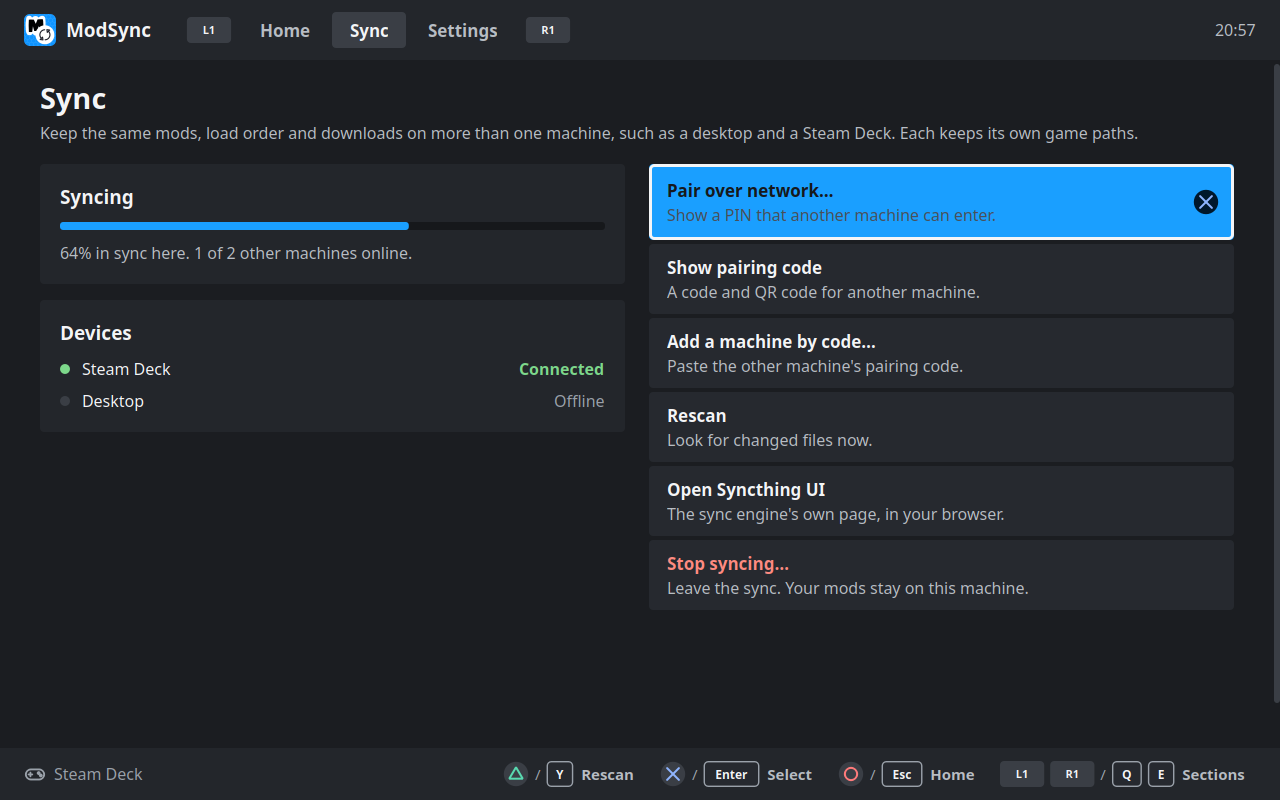
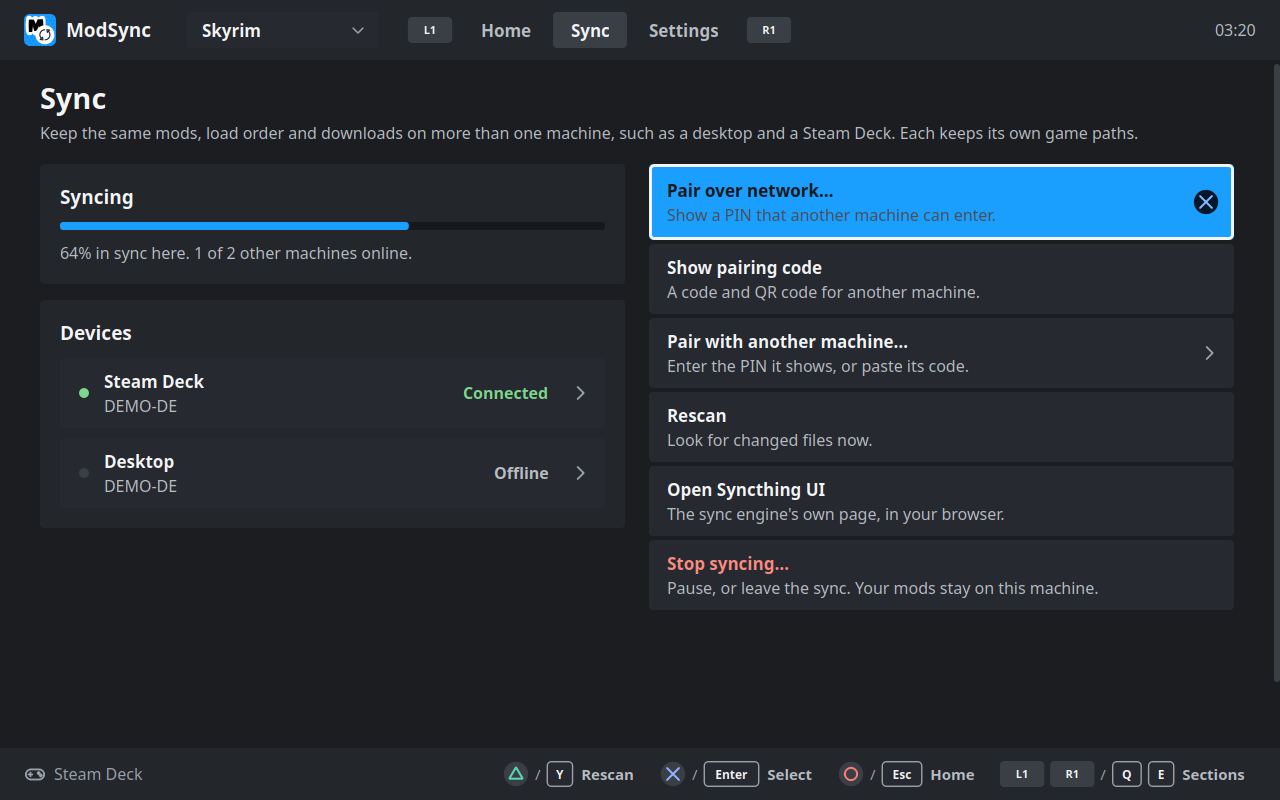
Address review: clear rows when idle; instructions every machine can follow
- Once nothing syncs or pairs here (the last folder stopped, the last
  machine forgotten), the Sync page drops the games' and machines' rows
  instead of showing them until restart. It doesn't start Syncthing to
  find out.
- The vault's page gets "Pair with another machine" (PIN or code, pairing
  only) in place of "Add a machine by code…", so every Sync page can enter
  a PIN or code. A vault's PIN and code name both choices: copy, or pair
  only. A machine's own names pairing.

diff --git a/tests/test_ui_pair_machines.py b/tests/test_ui_pair_machines.py
@@ -195,3 +195,93 @@ class VaultPageTests(UiTestCase):
         sync.on_status(status)
         self.assertTrue(sync.games_panel.isVisibleTo(sync))
         self.assertEqual(sync._game_rows["dfu-saves"].text(), "Daggerfall Unity saves")
+
+
+class GoingInactiveTests(UiTestCase):
+    """Once nothing syncs or pairs here, the rows go without asking Syncthing."""
+
+    def _window(self):
+        mods = str(self.tmp / "dfu")
+        State(game_folders={"dfu-mods": mods}, paired=True).save()
+        status = _status([FolderStatus(dfu.MODS_FOLDER, mods, "idle", 100.0)], [("DECKDEC-1", "steamdeck", True)])
+        with patch.object(ModSyncService, "status", lambda svc: status):
+            window = self.window()
+            self.settle()
+        sync = window.pages["sync"]
+        self.assertTrue(sync._game_rows and sync._device_rows)
+        return window, sync
+
+    def test_stopping_the_last_folder_with_no_machine_left_clears_the_rows(self):
+        window, sync = self._window()
+        State.update(game_folders={}, paired=False)
+        with patch.object(ModSyncService, "status") as status:
+            sync.poll()
+            self.settle()
+        status.assert_not_called()
+        self.assertEqual((sync._game_rows, sync._device_rows), ({}, {}))
+        self.assertTrue(sync._no_games.isVisibleTo(sync))
+        self.assertIsNotNone(sync._no_devices)
+
+    def test_forgetting_the_last_machine_with_no_folder_clears_its_row(self):
+        window, sync = self._window()
+        State.update(game_folders={})  # the folder stopped earlier; the machine is still paired
+        with patch.object(ModSyncService, "status", lambda svc: _status([], [("DECKDEC-1", "steamdeck", True)])):
+            sync.poll()
+            self.settle()
+        self.assertEqual(sync._game_rows, {})
+        self.assertEqual(list(sync._device_rows), ["DECKDEC-1"])
+        State.update(paired=False)  # what forget_machine does with no machine left
+        sync.poll()
+        self.settle()
+        self.assertEqual(sync._device_rows, {})
+
+
+class InstructionsTests(UiTestCase):
+    """The PIN and code name a choice every receiving Sync page has."""
+
+    def test_the_vaults_page_can_enter_a_pin_or_code_that_only_pairs(self):
+        State(instance_path=str(self.tmp), folder_id="modsync-1").save()
+        window = self.window()
+        sync = window.pages["sync"]
+        sync.join_tile.click()
+        self.assertTrue(sync.pair_join_panel.isVisibleTo(sync))
+        self.assertTrue(sync.pair_join.machine)
+        with patch("modsync.ui.pages.sync.worker.run_async") as run:
+            sheet = sync.pair_join.ask_pin(DECK)
+            sheet.set_pin("123456")
+            sheet.submit()
+        self.assertEqual(run.call_args.args, (window.service.join_via_network, DECK, "123456", None))
+
+    def test_a_vaults_pin_and_code_name_both_choices(self):
+        from modsync.ui.overlays import CodeSheet
+
+        State(instance_path=str(self.tmp), folder_id="modsync-1").save()
+        window = self.window()
+        sync = window.pages["sync"]
+        with patch("modsync.ui.pages.sync.worker.run_async"):
+            sync.pair_network()
+        steps = window.top_overlay.steps.text()
+        self.assertIn("Copy from another machine", steps)
+        self.assertIn("Pair with another machine", steps)
+        sync.cancel_pairing()
+        CodeSheet(window, PairingCode("D" * 56, "modsync-1", "Skyrim SE").encode()).open()
+        steps = window.top_overlay.steps.text()
+        self.assertIn("Copy from another machine", steps)
+        self.assertIn("Pair with another machine", steps)
+        window.top_overlay.cancel()
+        CodeSheet(window, PairingCode("D" * 56, "", "ModSync").encode()).open()
+        self.assertNotIn("Copy from another machine", window.top_overlay.steps.text())
+
+    def test_every_sync_page_offers_pair_with_another_machine(self):
+        for state in (State(), State(instance_path=str(self.tmp)),
+                      State(instance_path=str(self.tmp), folder_id="modsync-1"),
+                      State(game_folders={"dfu-mods": str(self.tmp / "dfu")}, paired=True)):
+            with self.subTest(state=state):
+                state.save()
+                window = self.window()
+                sync = window.pages["sync"]
+                tiles = [t for t in (getattr(sync, "pair_only_tile", None), sync.join_tile)
+                         if t is not None and t.isVisibleTo(sync)]
+                self.assertEqual(len(tiles), 1)
+                self.assertTrue(tiles[0].text().startswith("Pair with another machine"))
+                window.close()

diff --git a/modsync/ui/pages/sync.py b/modsync/ui/pages/sync.py
@@ -397,11 +397,7 @@ class SyncPage(Page):
         for tile in tiles:
             right.addWidget(tile)
         right.addStretch(1)
-        self.pair_join = JoinPanel(self.host, machine=True)
-        self.pair_join_panel = Panel()
-        self.pair_join_panel.add(self.pair_join)
-        self.pair_join_panel.setVisible(False)
-        self.content_layout.addWidget(self.pair_join_panel)
+        self._add_pair_join()
         self._show_devices([])
         self._update_machine()
         if state.active:
@@ -424,6 +420,15 @@ class SyncPage(Page):
         if hosts and not self._code_requested:
             self._code_requested = True
             self._load_code()
+
+    def _add_pair_join(self) -> None:
+        """Entering another machine's PIN or code only pairs: whatever the
+        two sync is shared between them."""
+        self.pair_join = JoinPanel(self.host, machine=True)
+        self.pair_join_panel = Panel()
+        self.pair_join_panel.add(self.pair_join)
+        self.pair_join_panel.setVisible(False)
+        self.content_layout.addWidget(self.pair_join_panel)
 
     def toggle_pair_join(self) -> None:
         show = not self.pair_join_panel.isVisible()
@@ -533,11 +538,12 @@ class SyncPage(Page):
             self.pair_tile.clicked.connect(self.pair_network)
             code = Tile("Show pairing code", "A code and QR code for another machine.", "qr", size="compact")
             code.clicked.connect(self.show_code)
-            add = Tile("Add a machine by code…", "Paste the other machine's pairing code.", "plus", size="compact")
-            add.clicked.connect(self.add_device)
+            self.join_tile = Tile("Pair with another machine…", "Enter the PIN it shows, or paste its code.",
+                                  "devices", size="compact", chevron=True)
+            self.join_tile.clicked.connect(self.toggle_pair_join)
             rescan = Tile("Rescan", "Look for changed files now.", "refresh", size="compact")
             rescan.clicked.connect(self.rescan)
-            tiles = [self.pair_tile, code, add, rescan]
+            tiles = [self.pair_tile, code, self.join_tile, rescan]
             if state.sync_paused:
                 self.resume_tile = Tile("Resume syncing", "Carry over what changed on each machine meanwhile.",
                                         "play", role="primary")
@@ -554,6 +560,8 @@ class SyncPage(Page):
         for tile in tiles:
             right.addWidget(tile)
         right.addStretch(1)
+        if not state.copying:
+            self._add_pair_join()
         self._load_code()
         self.refresh()
         self._accept_pending()
@@ -572,6 +580,10 @@ class SyncPage(Page):
             self.service.reload_state()  # a game's page may have turned its sync on or off
             self._update_machine()
             if not self.service.state.active:
+                # The last folder stopped or the last machine was forgotten:
+                # nothing is left to show, and Syncthing isn't started to say so.
+                self._show_games([])
+                self._show_devices([])
                 return
         self.refresh()
         self._accept_pending()
@@ -700,16 +712,6 @@ class SyncPage(Page):
             return
         CodeSheet(self.host, self._code).open()
 
-    def add_device(self) -> None:
-        def add(text: str) -> None:
-            code = PairingCode.decode(text)
-            worker.run_async(self.service.add_peer, code,
-                             on_done=lambda _: (self.host.notify("Device added.", "ok"), self.refresh()),
-                             on_failed=lambda m: self.host.notify(f"⚠ {m}"))
-
-        KeyboardSheet(self.host, "Add a machine", "Paste the pairing code from the other machine.", add,
-                      placeholder="MODSYNC1-…", validate=_validate_code).open()
-
     def pair_network(self) -> None:
         if self._pairing:
             self.cancel_pairing()
@@ -718,8 +720,7 @@ class SyncPage(Page):
         self._pair_stop = threading.Event()
         self._pairing = True
         name = socket.gethostname() or "this machine"
-        self.beacon = BeaconSheet(self.host, pin, name, self.cancel_pairing,
-                                  choice="Copy from another machine" if self.live else "Pair with another machine")
+        self.beacon = BeaconSheet(self.host, pin, name, self.cancel_pairing, vault=self.live)
         self.beacon.open()
         self.host.notify(f"Waiting for another machine to enter PIN {pin[:3]} {pin[3:]}…")
         beacon = self.beacon

diff --git a/modsync/ui/overlays.py b/modsync/ui/overlays.py
@@ -1051,11 +1051,19 @@ class FolderSheet(Overlay):
 # --- pairing --------------------------------------------------------------------------------
 
 
+def _choices(vault: bool, open_: str, close: str) -> str:
+    """Which Sync choice takes this machine's PIN or code. Every Sync page
+    can pair; one with Mod Organizer 2 not yet shared can copy a vault."""
+    pair = f"{open_}Pair with another machine{close}"
+    if not vault:
+        return pair
+    return f"{open_}Copy from another machine{close} to copy these mods, or {pair} to pair only"
+
+
 class BeaconSheet(Overlay):
     """The host side of network pairing: one huge PIN to read across a room."""
 
-    def __init__(self, host, pin: str, name: str, on_cancel: Callable[[], None], *,
-                 choice: str = "Copy from another machine") -> None:
+    def __init__(self, host, pin: str, name: str, on_cancel: Callable[[], None], *, vault: bool = True) -> None:
         super().__init__(host, "", width=820)
         self._cancelled = on_cancel
         self.pin_label = QLabel(f"{pin[:3]} {pin[3:]}")
@@ -1065,8 +1073,8 @@ class BeaconSheet(Overlay):
         self.pin_label.setTextInteractionFlags(Qt.TextInteractionFlag.TextSelectableByMouse)
         self.body.addWidget(self.pin_label)
         self.steps = label(
-            f"On the other machine, open <b>Sync</b>, choose <b>{choice}</b>, "
-            f"pick <b>{name}</b> from the list and enter this PIN.", "secondary")
+            f"On the other machine, open <b>Sync</b> and choose {_choices(vault, '<b>', '</b>')}, "
+            f"then pick <b>{name}</b> from the list and enter this PIN.", "secondary")
         self.steps.setAlignment(Qt.AlignmentFlag.AlignCenter)
         self.body.addWidget(self.steps)
         self.address = label("Starting…", "muted", selectable=True)
@@ -1106,10 +1114,10 @@ class CodeSheet(Overlay):
         qr.setStyleSheet("background: white; border-radius: 4px;")
         row.addWidget(qr, 0, Qt.AlignmentFlag.AlignTop)
         col = QVBoxLayout()
-        # A machine's own code (no vault) pairs; a vault's is copied.
-        choice = "Pair with another machine" if code.startswith("MODSYNC2-") else "Copy from another machine"
-        self.steps = label(f"On another machine, choose \"{choice}\" under Sync, then "
-                           "\"Paste a pairing code\", or scan this code.", "secondary")
+        # A machine's own code (no vault) only pairs; a vault's can be copied too.
+        choices = _choices(not code.startswith("MODSYNC2-"), "\"", "\"")
+        self.steps = label(f"On another machine, open Sync and choose {choices}, then \"Paste a pairing "
+                           "code\", or scan this code.", "secondary")
         col.addWidget(self.steps)
         self.code = label(code, "", selectable=True)
         self.code.setFont(QFont("monospace", 11))

diff --git a/scripts/preview_ui.py b/scripts/preview_ui.py
@@ -276,7 +276,7 @@ def main():
                 w.top_overlay.cancel()
                 settle()
         router.pad_style = "xbox"
-        w.pages["sync"].add_device()
+        w.pages["sync"].pair_join.enter_code()
         capture(w, "keyboard")
         keyboard = w.top_overlay
         keyboard.shift.click()

diff --git a/docs/advanced.md b/docs/advanced.md
@@ -342,9 +342,9 @@ each about the other the next time they connect to it. After that, the Deck
 and the laptop sync with each other directly, even with the desktop off. The
 desktop passes them on through a folder it syncs with both. Once a machine
 passed on this way has connected, it gets every game's folder too, including
-one the desktop doesn't sync. If the desktop will never be online again, "Add
-a machine by code…" on one of the others, with the other's code, pairs them
-directly.
+one the desktop doesn't sync. If the desktop will never be online again, "Pair
+with another machine" on one of the others, with the other's PIN or code,
+pairs them directly.
 
 Pairings made before ModSync passed machines on one way went both ways. The
 first time this version runs, it keeps one direction for each such pair:
@@ -408,7 +408,9 @@ because a machine accepts a machine that enters its code only while something
 syncs there. On a machine with Mod Organizer 2 that isn't shared yet, this is
 one row under the vault's two choices until something pairs or syncs.
 "Copy from another machine" pairs with a machine that has no vault rather
-than refusing it, and so does its `MODSYNC2-` code.
+than refusing it, and so does its `MODSYNC2-` code. On the vault's page,
+"Pair with another machine" takes another machine's PIN or code and pairs
+the two, so every Sync page can enter a PIN or code that only pairs.
 
 If Syncthing isn't answering when a folder is stopped, the folder shows as
 stopping and is let go the next time ModSync reaches Syncthing. Leaving the

diff --git a/CHANGELOG.md b/CHANGELOG.md
@@ -53,8 +53,10 @@ All notable changes to ModSync are documented here. The format follows
   network" and "Show pairing code" offer this machine's own. The page lists
   each game's folder and how it stands, beside the vault too, and the paired
   machines. "Copy from another machine" pairs with a machine that has no
-  vault, or takes its `MODSYNC2-` code, instead of refusing it. A game whose
-  sync is on with no machine paired yet points to Sync.
+  vault, or takes its `MODSYNC2-` code, instead of refusing it. On the
+  vault's page, "Pair with another machine" replaces "Add a machine by
+  code…" and takes a PIN too. A game whose sync is on with no machine
+  paired yet points to Sync.
 
 ### Changed
 
